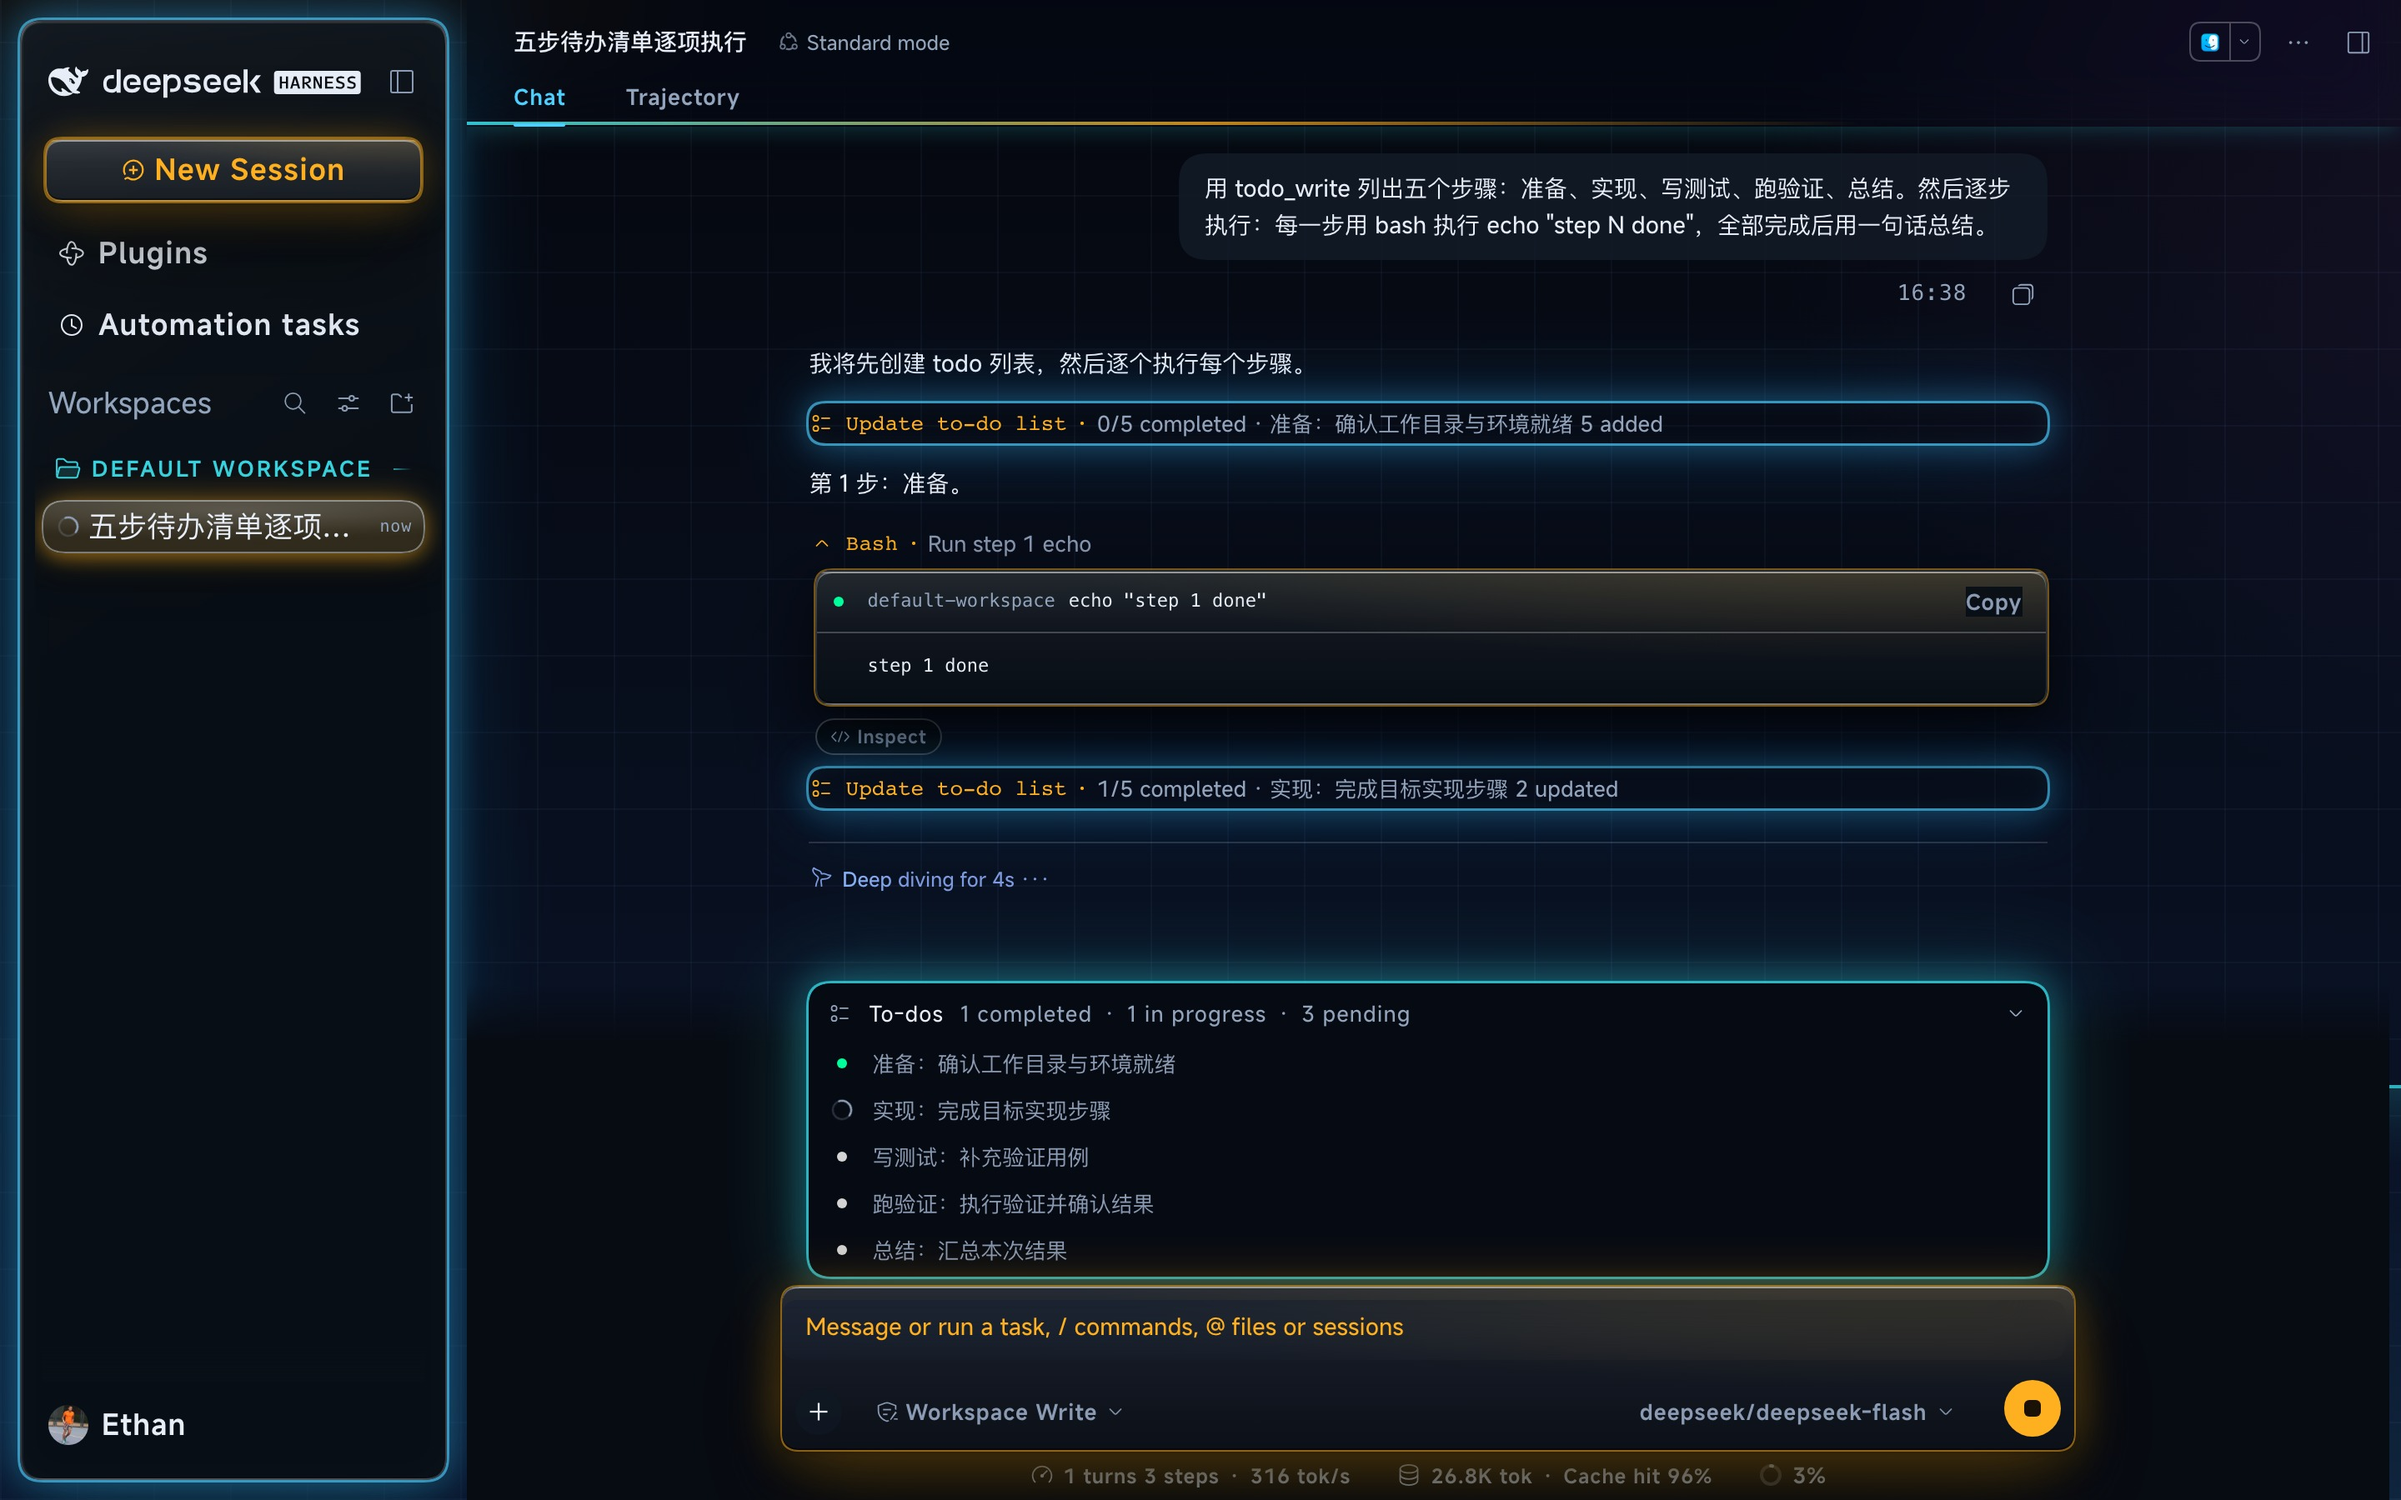
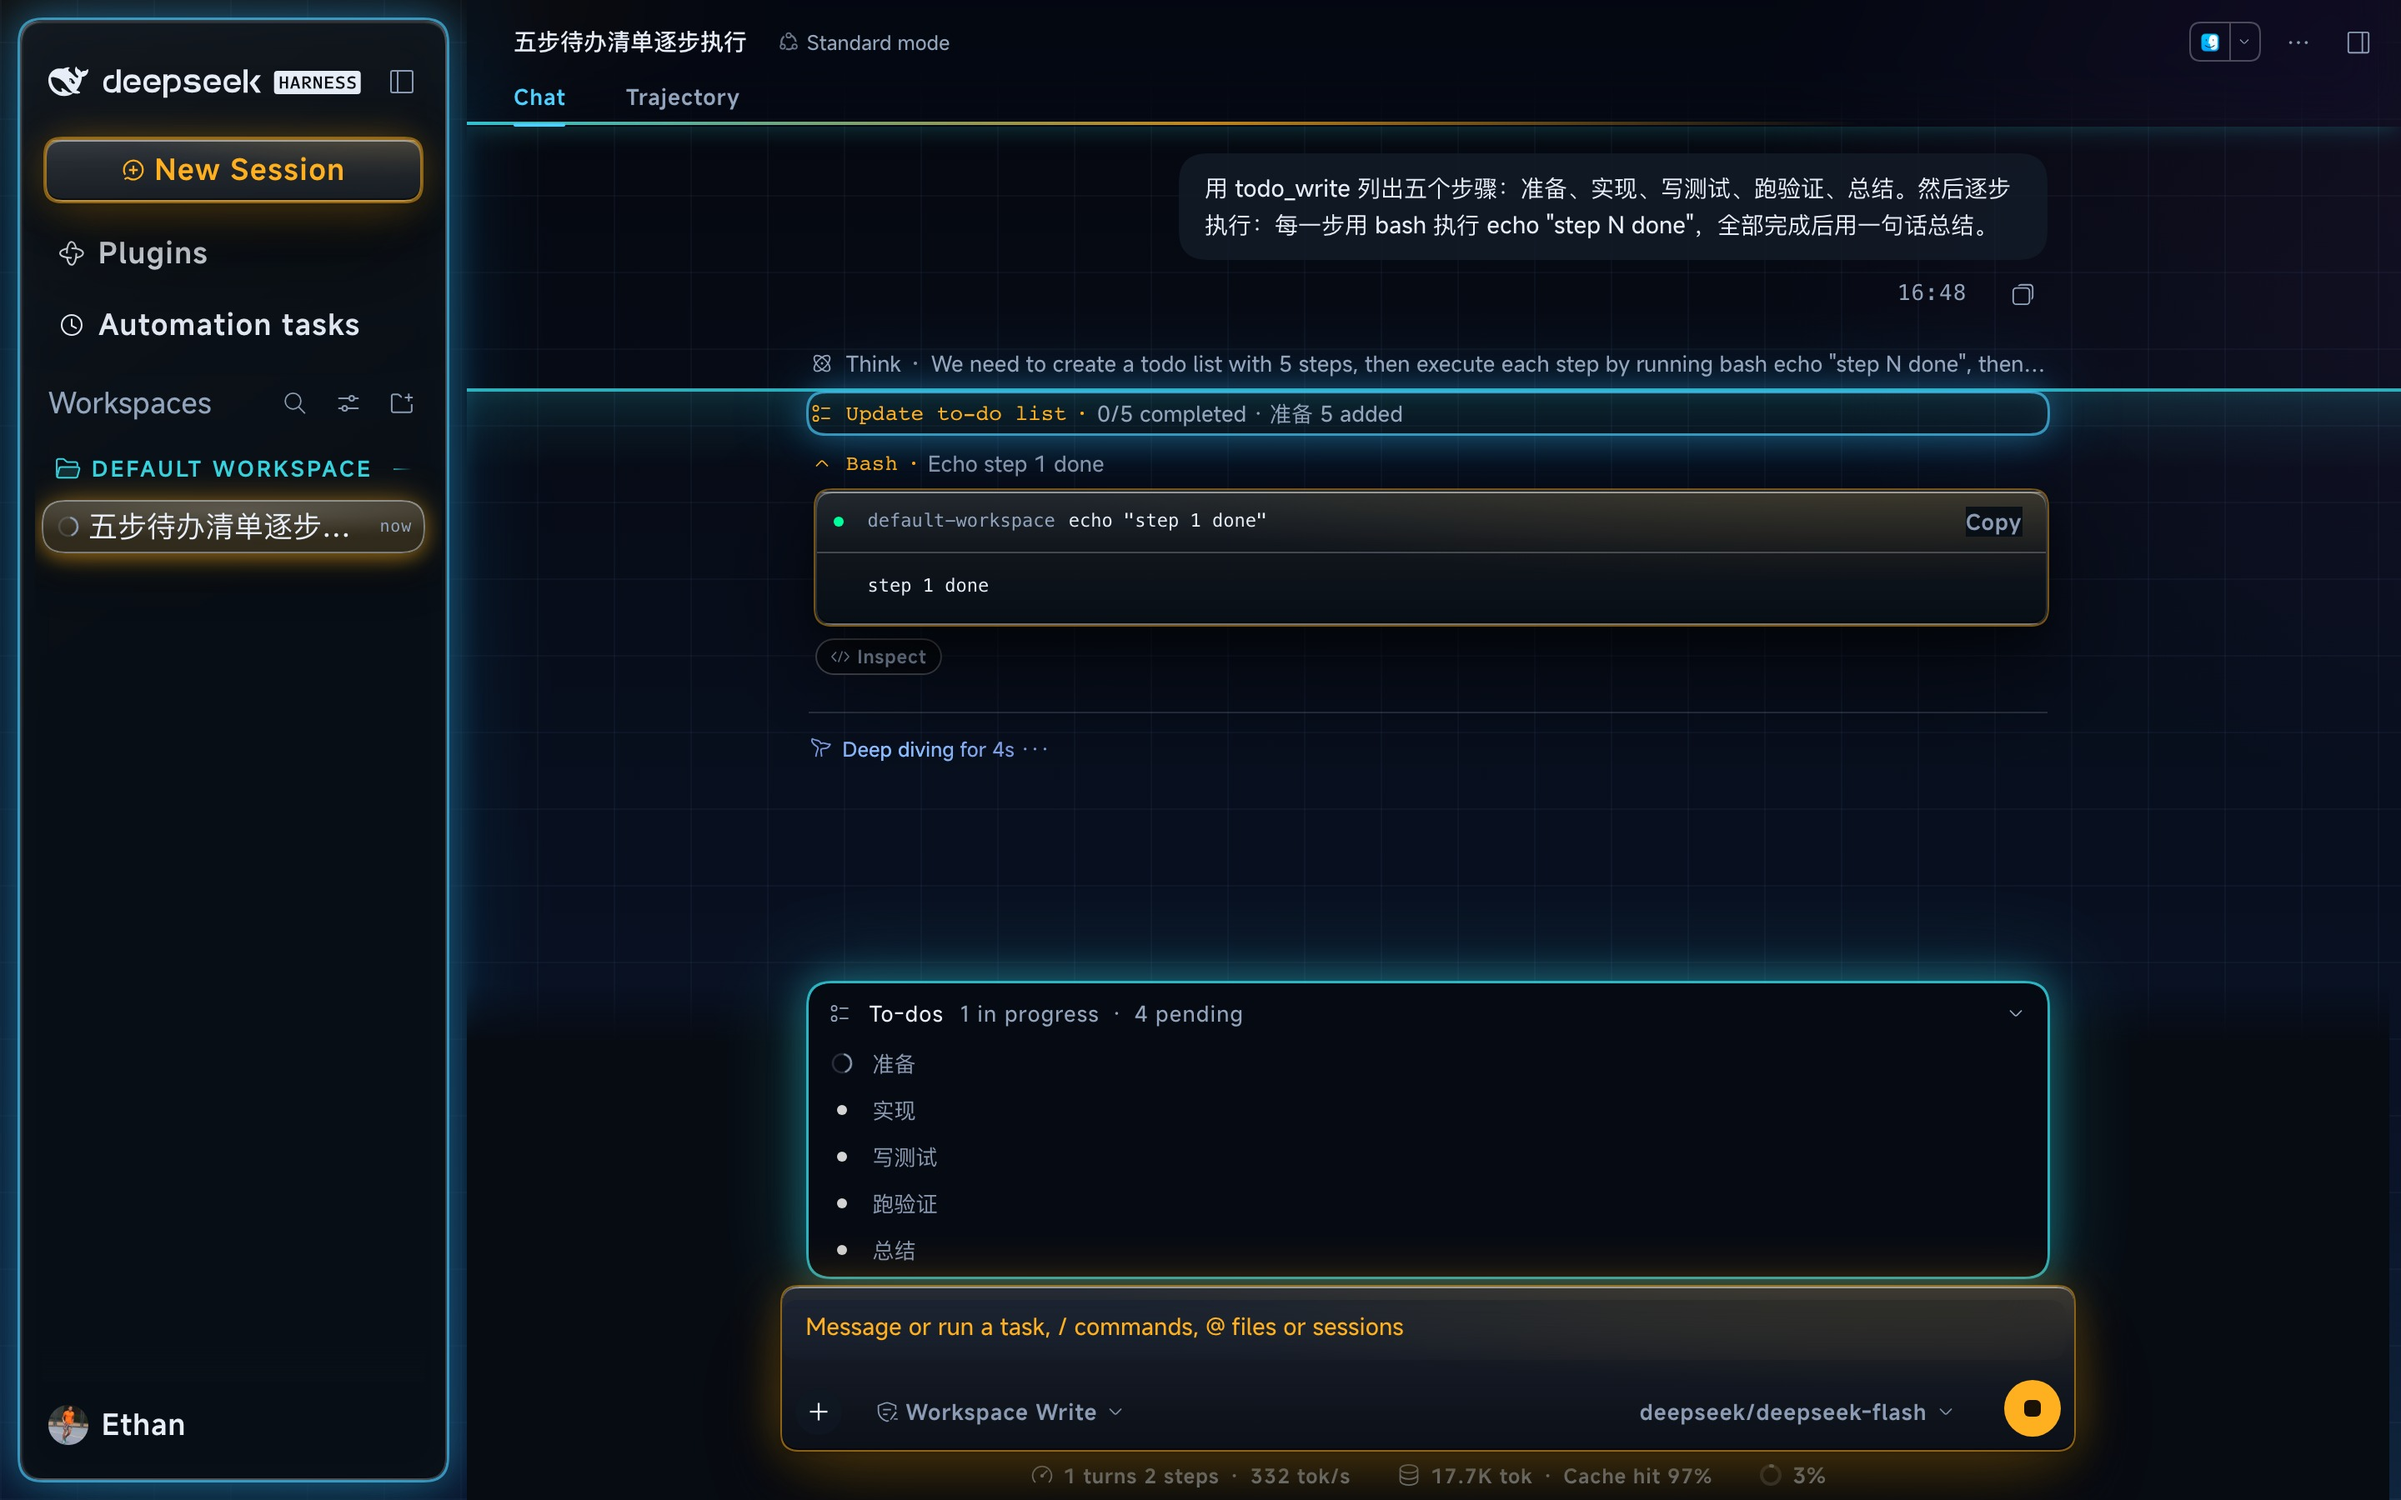
docs(readme): 扫描线预览换成"todo 展开 + 命令卡展开 + 扫描线可见"的一帧
上一版那张抓帧时扫描线还在列底（被 todo 卡和输入框挡住），用户看不到线。

这次在同一轮真实示例任务里，把扫描线动画**停在可见的中段**再截（16s 一程，线从列底向
上扫；抓在底段就看不见）。画面里同时有：

- 底部 todo 卡展开：准备 ◐ / 实现 · / 写测试 · / 跑验证 · / 总结 ·（五条都在）；
- 命令卡展开：default-workspace echo "step 1 done" + 输出 step 1 done + Copy/Inspect；
- 横贯画面的青色扫描线（可见）；
- 侧栏示例会话，无真实会话。

README 里写明"扫描线是 16 秒一程的动画，抓帧时停在可见中段"。
`npm run verify` 19/19。

Changed region(s): [[0.1875, 0.2178, 1.0, 0.5911], [0.375, 0.6533, 0.5312, 0.84], [0.5625, 0.6533, 0.5938, 0.6844]]

diff --git a/README.md b/README.md
@@ -36,8 +36,9 @@ gone the moment the turn settles — idle reading never gets a moving line. Off 
 `prefers-reduced-motion` 与 ≤768px 下关闭。
 
 预览图是一次**真实的示例任务**（`todo_write` 列出五步、每步跑一句 `echo "step N done"`）
-进行中拍的：底部是**展开的 todo 卡**（准备 ✓ / 实现 ◐ / 写测试 · 跑验证 · 总结 待处理），
-中间是**展开的命令卡**（第一步的 bash 调用与输出），两者之间那条青线就是扫描线。
+进行中拍的：底部是**展开的 todo 卡**（准备 ◐ / 实现 · / 写测试 · / 跑验证 · / 总结 ·），
+中间上方是**展开的命令卡**（第一步的 bash 调用与输出），横贯画面的那条青光就是扫描线
+（它是 16 秒一程的动画，抓帧时停在可见的中段）。
 The frame is a real capture of a harmless five-step example task in progress
 (`todo_write` + one `echo` per step): the todo card at the bottom is expanded (one done, one in
 progress, three pending), the command card in the middle is step 1's `bash` call and output, and
